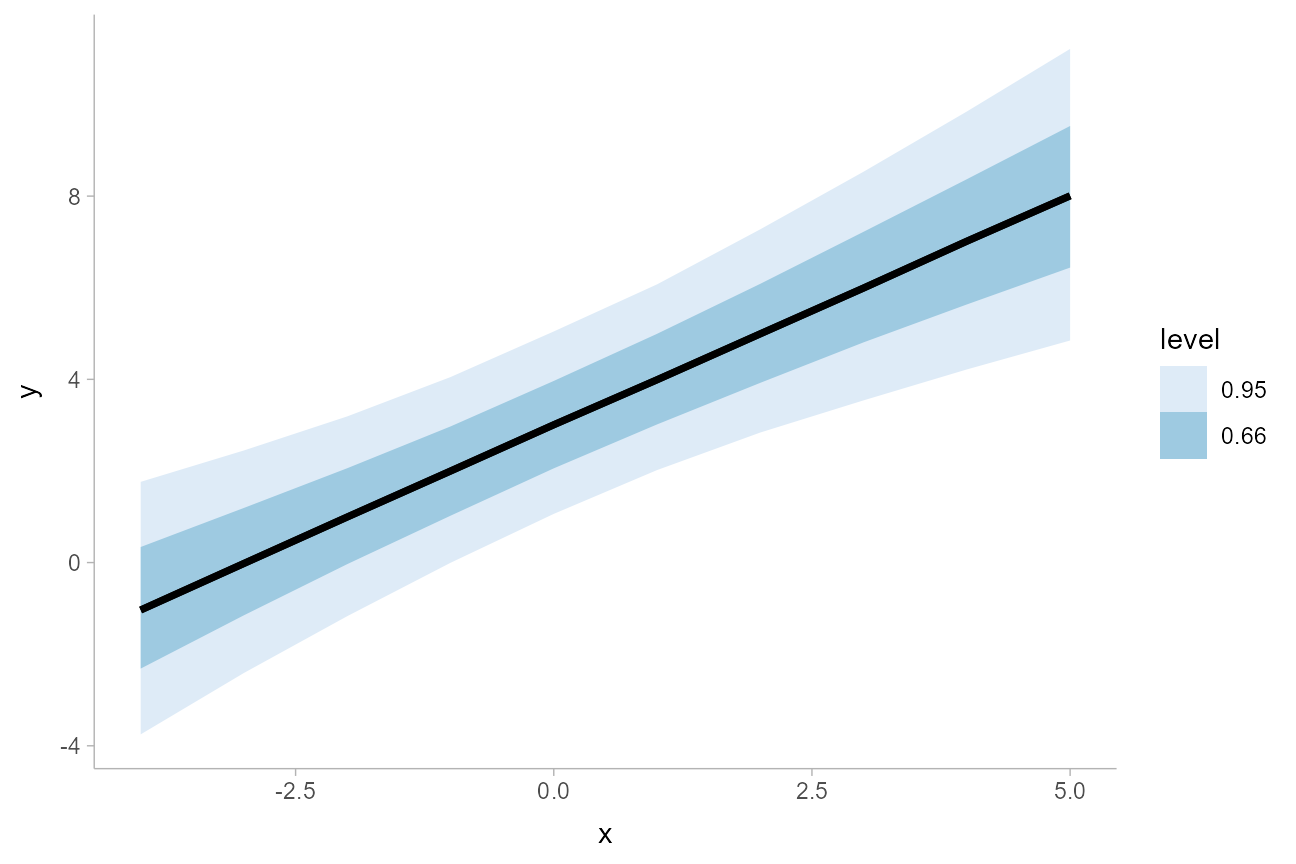
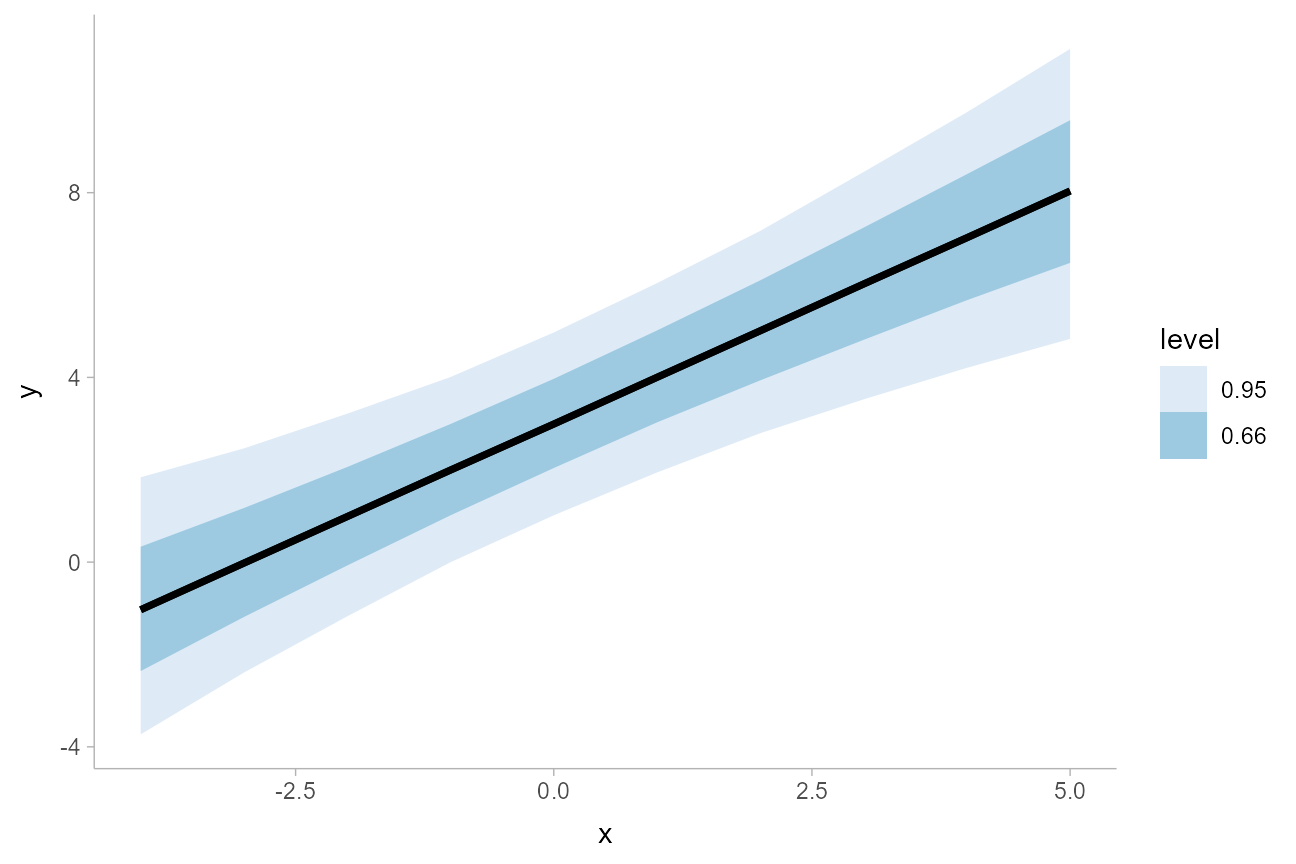
add example use of stage() and lighten() on lineribbons

diff --git a/docs/articles/freq-uncertainty-vis.html b/docs/articles/freq-uncertainty-vis.html
@@ -106,7 +106,7 @@
       <h1 data-toc-skip>Frequentist uncertainty visualization</h1>
                         <h4 class="author">Matthew Kay</h4>
             
-            <h4 class="date">2020-11-23</h4>
+            <h4 class="date">2020-11-24</h4>
       
       <small class="dont-index">Source: <a href="https://github.com/mjskay/ggdist/blob/master/vignettes/freq-uncertainty-vis.Rmd"><code>vignettes/freq-uncertainty-vis.Rmd</code></a></small>
       <div class="hidden name"><code>freq-uncertainty-vis.Rmd</code></div>
@@ -297,13 +297,17 @@ img {
 <span class="va">m_mpg</span> <span class="op">=</span> <span class="fu"><a href="https://rdrr.io/r/stats/lm.html">lm</a></span><span class="op">(</span><span class="va">mpg</span> <span class="op">~</span> <span class="va">hp</span> <span class="op">*</span> <span class="va">cyl</span>, data <span class="op">=</span> <span class="va">mtcars</span><span class="op">)</span></pre></div>
 <p>Again we’ll use <code><a href="https://modelr.tidyverse.org/reference/data_grid.html">modelr::data_grid()</a></code> with <code><a href="https://generics.r-lib.org/reference/tidy.html">broom::tidy()</a></code>, but now we’ll employ <code><a href="../reference/stat_lineribbon.html">stat_dist_lineribbon()</a></code>:</p>
 <div class="sourceCode" id="cb15"><pre class="downlit">
+<span class="va">lighten2</span> <span class="op">=</span> <span class="fu"><a href="https://rdrr.io/r/base/Vectorize.html">Vectorize</a></span><span class="op">(</span><span class="kw">function</span><span class="op">(</span><span class="va">color</span>, <span class="va">amount</span><span class="op">)</span> <span class="op">{</span>
+  <span class="fu"><a href="https://rdrr.io/r/grDevices/rgb.html">rgb</a></span><span class="op">(</span><span class="fu"><a href="https://rdrr.io/r/grDevices/colorRamp.html">colorRamp</a></span><span class="op">(</span><span class="fu"><a href="https://rdrr.io/r/base/c.html">c</a></span><span class="op">(</span><span class="va">color</span>, <span class="st">"white"</span><span class="op">)</span>, space <span class="op">=</span> <span class="st">"Lab"</span><span class="op">)</span><span class="op">(</span><span class="va">amount</span><span class="op">)</span>, max <span class="op">=</span> <span class="fl">255</span><span class="op">)</span>
+<span class="op">}</span><span class="op">)</span>
+
 <span class="va">mtcars</span> <span class="op">%&gt;%</span>
   <span class="fu"><a href="https://dplyr.tidyverse.org/reference/group_by.html">group_by</a></span><span class="op">(</span><span class="va">cyl</span><span class="op">)</span> <span class="op">%&gt;%</span>
   <span class="fu"><a href="https://modelr.tidyverse.org/reference/data_grid.html">data_grid</a></span><span class="op">(</span>hp <span class="op">=</span> <span class="fu"><a href="https://modelr.tidyverse.org/reference/seq_range.html">seq_range</a></span><span class="op">(</span><span class="va">hp</span>, n <span class="op">=</span> <span class="fl">101</span><span class="op">)</span><span class="op">)</span> <span class="op">%&gt;%</span>
   <span class="fu"><a href="https://generics.r-lib.org/reference/augment.html">augment</a></span><span class="op">(</span><span class="va">m_mpg</span>, newdata <span class="op">=</span> <span class="va">.</span>, se_fit <span class="op">=</span> <span class="cn">TRUE</span><span class="op">)</span> <span class="op">%&gt;%</span>
   <span class="fu"><a href="https://ggplot2.tidyverse.org/reference/ggplot.html">ggplot</a></span><span class="op">(</span><span class="fu"><a href="https://ggplot2.tidyverse.org/reference/aes.html">aes</a></span><span class="op">(</span>x <span class="op">=</span> <span class="va">hp</span>, fill <span class="op">=</span> <span class="fu"><a href="https://rdrr.io/r/base/factor.html">ordered</a></span><span class="op">(</span><span class="va">cyl</span><span class="op">)</span>, color <span class="op">=</span> <span class="fu"><a href="https://rdrr.io/r/base/factor.html">ordered</a></span><span class="op">(</span><span class="va">cyl</span><span class="op">)</span><span class="op">)</span><span class="op">)</span> <span class="op">+</span>
   <span class="fu"><a href="../reference/stat_lineribbon.html">stat_dist_lineribbon</a></span><span class="op">(</span>
-    <span class="fu"><a href="https://ggplot2.tidyverse.org/reference/aes.html">aes</a></span><span class="op">(</span>dist <span class="op">=</span> <span class="fu"><a href="https://pkg.mitchelloharawild.com/distributional/reference/dist_student_t.html">dist_student_t</a></span><span class="op">(</span>df <span class="op">=</span> <span class="fu"><a href="https://rdrr.io/r/stats/df.residual.html">df.residual</a></span><span class="op">(</span><span class="va">m_mpg</span><span class="op">)</span>, mu <span class="op">=</span> <span class="va">.fitted</span>, sigma <span class="op">=</span> <span class="va">.se.fit</span><span class="op">)</span><span class="op">)</span>, 
+    <span class="fu"><a href="https://ggplot2.tidyverse.org/reference/aes.html">aes</a></span><span class="op">(</span>dist <span class="op">=</span> <span class="fu"><a href="https://pkg.mitchelloharawild.com/distributional/reference/dist_student_t.html">dist_student_t</a></span><span class="op">(</span>df <span class="op">=</span> <span class="fu"><a href="https://rdrr.io/r/stats/df.residual.html">df.residual</a></span><span class="op">(</span><span class="va">m_mpg</span><span class="op">)</span>, mu <span class="op">=</span> <span class="va">.fitted</span>, sigma <span class="op">=</span> <span class="va">.se.fit</span><span class="op">)</span><span class="op">)</span>,
     alpha <span class="op">=</span> <span class="fl">1</span><span class="op">/</span><span class="fl">4</span>
   <span class="op">)</span> <span class="op">+</span>
   <span class="fu"><a href="https://ggplot2.tidyverse.org/reference/geom_point.html">geom_point</a></span><span class="op">(</span><span class="fu"><a href="https://ggplot2.tidyverse.org/reference/aes.html">aes</a></span><span class="op">(</span>y <span class="op">=</span> <span class="va">mpg</span><span class="op">)</span>, data <span class="op">=</span> <span class="va">mtcars</span><span class="op">)</span> <span class="op">+</span>
@@ -316,6 +320,27 @@ img {
     y <span class="op">=</span> <span class="st">"mpg"</span>
   <span class="op">)</span></pre></div>
 <p><img src="freq-uncertainty-vis_files/figure-html/lineribbon-1.png" width="648"></p>
+<p>Another alternative to using <code>alpha</code> to create gradations of lineribbon colors in different groups is to manually adjust the lightness of each ribbon using <code><a href="https://ggplot2.tidyverse.org/reference/aes_eval.html">ggplot2::stage()</a></code>, which allows you to transform color values after they have been computed. Here we’ll combine it with <code><a href="http://colorspace.R-Forge.R-project.org//reference/lighten.html">colorspace::lighten()</a></code> to lighten the fill color of each band according to its width:</p>
+<div class="sourceCode" id="cb16"><pre class="downlit">
+<span class="va">mtcars</span> <span class="op">%&gt;%</span>
+  <span class="fu"><a href="https://dplyr.tidyverse.org/reference/group_by.html">group_by</a></span><span class="op">(</span><span class="va">cyl</span><span class="op">)</span> <span class="op">%&gt;%</span>
+  <span class="fu"><a href="https://modelr.tidyverse.org/reference/data_grid.html">data_grid</a></span><span class="op">(</span>hp <span class="op">=</span> <span class="fu"><a href="https://modelr.tidyverse.org/reference/seq_range.html">seq_range</a></span><span class="op">(</span><span class="va">hp</span>, n <span class="op">=</span> <span class="fl">101</span><span class="op">)</span><span class="op">)</span> <span class="op">%&gt;%</span>
+  <span class="fu"><a href="https://generics.r-lib.org/reference/augment.html">augment</a></span><span class="op">(</span><span class="va">m_mpg</span>, newdata <span class="op">=</span> <span class="va">.</span>, se_fit <span class="op">=</span> <span class="cn">TRUE</span><span class="op">)</span> <span class="op">%&gt;%</span>
+  <span class="fu"><a href="https://ggplot2.tidyverse.org/reference/ggplot.html">ggplot</a></span><span class="op">(</span><span class="fu"><a href="https://ggplot2.tidyverse.org/reference/aes.html">aes</a></span><span class="op">(</span>x <span class="op">=</span> <span class="va">hp</span>, color <span class="op">=</span> <span class="fu"><a href="https://rdrr.io/r/base/factor.html">ordered</a></span><span class="op">(</span><span class="va">cyl</span><span class="op">)</span><span class="op">)</span><span class="op">)</span> <span class="op">+</span>
+  <span class="fu"><a href="../reference/stat_lineribbon.html">stat_dist_lineribbon</a></span><span class="op">(</span><span class="fu"><a href="https://ggplot2.tidyverse.org/reference/aes.html">aes</a></span><span class="op">(</span>
+    dist <span class="op">=</span> <span class="fu"><a href="https://pkg.mitchelloharawild.com/distributional/reference/dist_student_t.html">dist_student_t</a></span><span class="op">(</span>df <span class="op">=</span> <span class="fu"><a href="https://rdrr.io/r/stats/df.residual.html">df.residual</a></span><span class="op">(</span><span class="va">m_mpg</span><span class="op">)</span>, mu <span class="op">=</span> <span class="va">.fitted</span>, sigma <span class="op">=</span> <span class="va">.se.fit</span><span class="op">)</span>,
+    fill <span class="op">=</span> <span class="fu"><a href="https://ggplot2.tidyverse.org/reference/aes_eval.html">stage</a></span><span class="op">(</span>start <span class="op">=</span> <span class="fu"><a href="https://rdrr.io/r/base/factor.html">ordered</a></span><span class="op">(</span><span class="va">cyl</span><span class="op">)</span>, after_scale <span class="op">=</span> <span class="fu">colorspace</span><span class="fu">::</span><span class="fu"><a href="http://colorspace.R-Forge.R-project.org//reference/lighten.html">lighten</a></span><span class="op">(</span><span class="va">fill</span>, <span class="va">.width</span> <span class="op">*</span> <span class="fl">.9</span>, space <span class="op">=</span> <span class="st">"combined"</span><span class="op">)</span><span class="op">)</span>
+  <span class="op">)</span>, show.legend <span class="op">=</span> <span class="cn">FALSE</span><span class="op">)</span> <span class="op">+</span>
+  <span class="fu"><a href="https://ggplot2.tidyverse.org/reference/geom_point.html">geom_point</a></span><span class="op">(</span><span class="fu"><a href="https://ggplot2.tidyverse.org/reference/aes.html">aes</a></span><span class="op">(</span>y <span class="op">=</span> <span class="va">mpg</span><span class="op">)</span>, data <span class="op">=</span> <span class="va">mtcars</span><span class="op">)</span> <span class="op">+</span>
+  
+  <span class="fu"><a href="https://ggplot2.tidyverse.org/reference/scale_brewer.html">scale_fill_brewer</a></span><span class="op">(</span>palette <span class="op">=</span> <span class="st">"Dark2"</span><span class="op">)</span> <span class="op">+</span>
+  <span class="fu"><a href="https://ggplot2.tidyverse.org/reference/scale_brewer.html">scale_color_brewer</a></span><span class="op">(</span>palette <span class="op">=</span> <span class="st">"Dark2"</span><span class="op">)</span> <span class="op">+</span>
+  <span class="fu"><a href="https://ggplot2.tidyverse.org/reference/labs.html">labs</a></span><span class="op">(</span>
+    color <span class="op">=</span> <span class="st">"cyl"</span>,
+    fill <span class="op">=</span> <span class="st">"cyl"</span>,
+    y <span class="op">=</span> <span class="st">"mpg"</span>
+  <span class="op">)</span></pre></div>
+<p><img src="freq-uncertainty-vis_files/figure-html/lineribbon_lightened-1.png" width="648"></p>
 <p>For more examples of using lineribbons, see <code><a href="../articles/lineribbon.html">vignette("lineribbon")</a></code>.</p>
 </div>
   </div>

diff --git a/docs/articles/lineribbon.html b/docs/articles/lineribbon.html
@@ -45,7 +45,7 @@
       </button>
       <span class="navbar-brand">
         <a class="navbar-link" href="../index.html">ggdist</a>
-        <span class="version label label-default" data-toggle="tooltip" data-placement="bottom" title="Released version">2.3.0</span>
+        <span class="version label label-default" data-toggle="tooltip" data-placement="bottom" title="Released version">2.3.0.9000</span>
       </span>
     </div>
 
@@ -106,7 +106,7 @@
       <h1 data-toc-skip>Lineribbon stats and geoms</h1>
                         <h4 class="author">Matthew Kay</h4>
             
-            <h4 class="date">2020-10-29</h4>
+            <h4 class="date">2020-11-24</h4>
       
       <small class="dont-index">Source: <a href="https://github.com/mjskay/ggdist/blob/master/vignettes/lineribbon.Rmd"><code>vignettes/lineribbon.Rmd</code></a></small>
       <div class="hidden name"><code>lineribbon.Rmd</code></div>
@@ -136,7 +136,7 @@ img {
 <span class="kw"><a href="https://rdrr.io/r/base/library.html">library</a></span><span class="op">(</span><span class="va"><a href="https://dplyr.tidyverse.org">dplyr</a></span><span class="op">)</span>
 <span class="kw"><a href="https://rdrr.io/r/base/library.html">library</a></span><span class="op">(</span><span class="va"><a href="https://tidyr.tidyverse.org">tidyr</a></span><span class="op">)</span>
 <span class="kw"><a href="https://rdrr.io/r/base/library.html">library</a></span><span class="op">(</span><span class="va"><a href="http://purrr.tidyverse.org">purrr</a></span><span class="op">)</span>
-<span class="kw"><a href="https://rdrr.io/r/base/library.html">library</a></span><span class="op">(</span><span class="va"><a href="https://mjskay.github.io/ggdist">ggdist</a></span><span class="op">)</span>
+<span class="kw"><a href="https://rdrr.io/r/base/library.html">library</a></span><span class="op">(</span><span class="va"><a href="https://mjskay.github.io/ggdist/">ggdist</a></span><span class="op">)</span>
 <span class="kw"><a href="https://rdrr.io/r/base/library.html">library</a></span><span class="op">(</span><span class="va"><a href="http://ggplot2.tidyverse.org">ggplot2</a></span><span class="op">)</span>
 <span class="kw"><a href="https://rdrr.io/r/base/library.html">library</a></span><span class="op">(</span><span class="va"><a href="https://pkg.mitchelloharawild.com/distributional/">distributional</a></span><span class="op">)</span>
 <span class="kw"><a href="https://rdrr.io/r/base/library.html">library</a></span><span class="op">(</span><span class="va"><a href="https://wilkelab.org/cowplot/">cowplot</a></span><span class="op">)</span>
@@ -187,16 +187,16 @@ img {
 <pre><code>## # A tibble: 10 x 7
 ##        x       y   .lower .upper .width .point .interval
 ##    &lt;int&gt;   &lt;dbl&gt;    &lt;dbl&gt;  &lt;dbl&gt;  &lt;dbl&gt; &lt;chr&gt;  &lt;chr&gt;    
-##  1    -4 -1.04   -3.75      1.76   0.95 median qi       
-##  2    -3 -0.0192 -2.41      2.45   0.95 median qi       
-##  3    -2  0.995  -1.17      3.19   0.95 median qi       
-##  4    -1  2.00   -0.00515   4.05   0.95 median qi       
-##  5     0  3.01    1.06      5.05   0.95 median qi       
-##  6     1  3.99    2.02      6.07   0.95 median qi       
-##  7     2  4.99    2.84      7.28   0.95 median qi       
-##  8     3  5.99    3.54      8.53   0.95 median qi       
-##  9     4  7.02    4.22      9.85   0.95 median qi       
-## 10     5  8.01    4.85     11.2    0.95 median qi</code></pre>
+##  1    -4 -1.03   -3.73      1.84   0.95 median qi       
+##  2    -3 -0.0212 -2.39      2.46   0.95 median qi       
+##  3    -2  0.986  -1.17      3.21   0.95 median qi       
+##  4    -1  1.99   -0.00265   4.01   0.95 median qi       
+##  5     0  2.99    1.01      4.97   0.95 median qi       
+##  6     1  4.00    1.94      6.04   0.95 median qi       
+##  7     2  5.01    2.79      7.17   0.95 median qi       
+##  8     3  6.02    3.52      8.45   0.95 median qi       
+##  9     4  7.02    4.21      9.74   0.95 median qi       
+## 10     5  8.04    4.83     11.1    0.95 median qi</code></pre>
 <p>Given data summarized like that above, we can then construct a line+ribbon chart using <code><a href="../reference/geom_lineribbon.html">geom_lineribbon()</a></code>:</p>
 <div class="sourceCode" id="cb6"><pre class="downlit">
 <span class="va">df</span> <span class="op">%&gt;%</span>
@@ -270,6 +270,11 @@ img {
   <span class="fu"><a href="../reference/stat_lineribbon.html">stat_dist_lineribbon</a></span><span class="op">(</span><span class="op">)</span> <span class="op">+</span>
   <span class="fu"><a href="https://ggplot2.tidyverse.org/reference/scale_brewer.html">scale_fill_brewer</a></span><span class="op">(</span><span class="op">)</span></pre></div>
 <p><img src="lineribbon_files/figure-html/stat_dist_lineribbon-1.png" width="648"></p>
+</div>
+<div id="more-examples" class="section level2">
+<h2 class="hasAnchor">
+<a href="#more-examples" class="anchor"></a>More examples</h2>
+<p>For more examples of lineribbons, including multiple lineribbons in the same plot, see the examples at the end of <code><a href="../articles/freq-uncertainty-vis.html">vignette("freq-uncertainty-vis")</a></code>.</p>
 </div>
 <div id="curve-boxplots-aka-lineribbons-with-joint-intervals-or-curvewise-intervals" class="section level2">
 <h2 class="hasAnchor">
